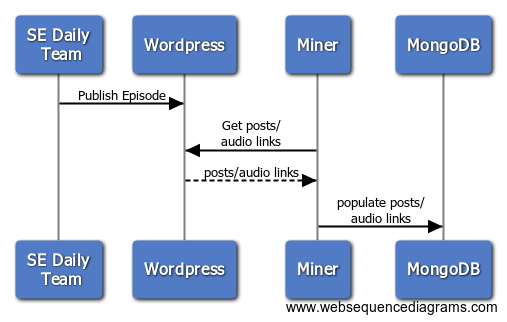
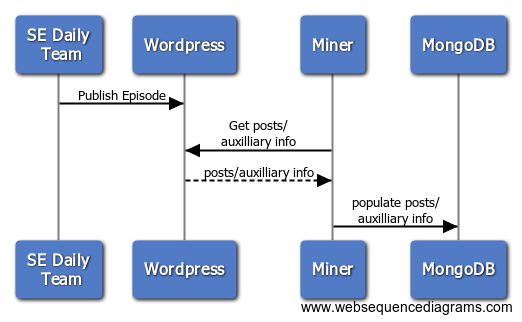
Update sequence diagram and add miner information

diff --git a/_docs/High_Level/architecture.md b/_docs/High_Level/architecture.md
@@ -10,9 +10,15 @@ The SE Daily ecosystem is comprised of the following  components: Wordpress site
 
 ### Wordpress Site
 
-<img src="/images/high_level.png" alt="Open Source Guide logo">
+The Wordpress site [softwareengineeringdaily.com](https://softwareengineeringdaily.com/) is the source of data used by the SE Daily API and associated clients. When new episodes of the podcast are published, a new post on the Wordpress CMS is created containing the episode description and the audio links.
 
 ### Data Miner
+
+The [sedaily-miner](https://github.com/SoftwareEngineeringDaily/sedaily-miner) project runs on Heroku. Its periodically scheduled cron job runs to scrape data from the [Wordpress API](https://softwareengineeringdaily.com/wp-json) and input it into the staging and production MongoDB instance. The MongoDB instance is the database that the REST API reads from and also runs on Heroku.
+
+Contributors will have to run the miner locally against a local MongoDB instance in order to have data for the API to serve. Alternatively, contributors can pull and run a pre-mined [Docker image](https://hub.docker.com/r/softwaredaily/sedaily-mongo/).
+
+<img src="/images/high_level.png" alt="Open Source Guide logo">
 
 ### Mongo Database
 
